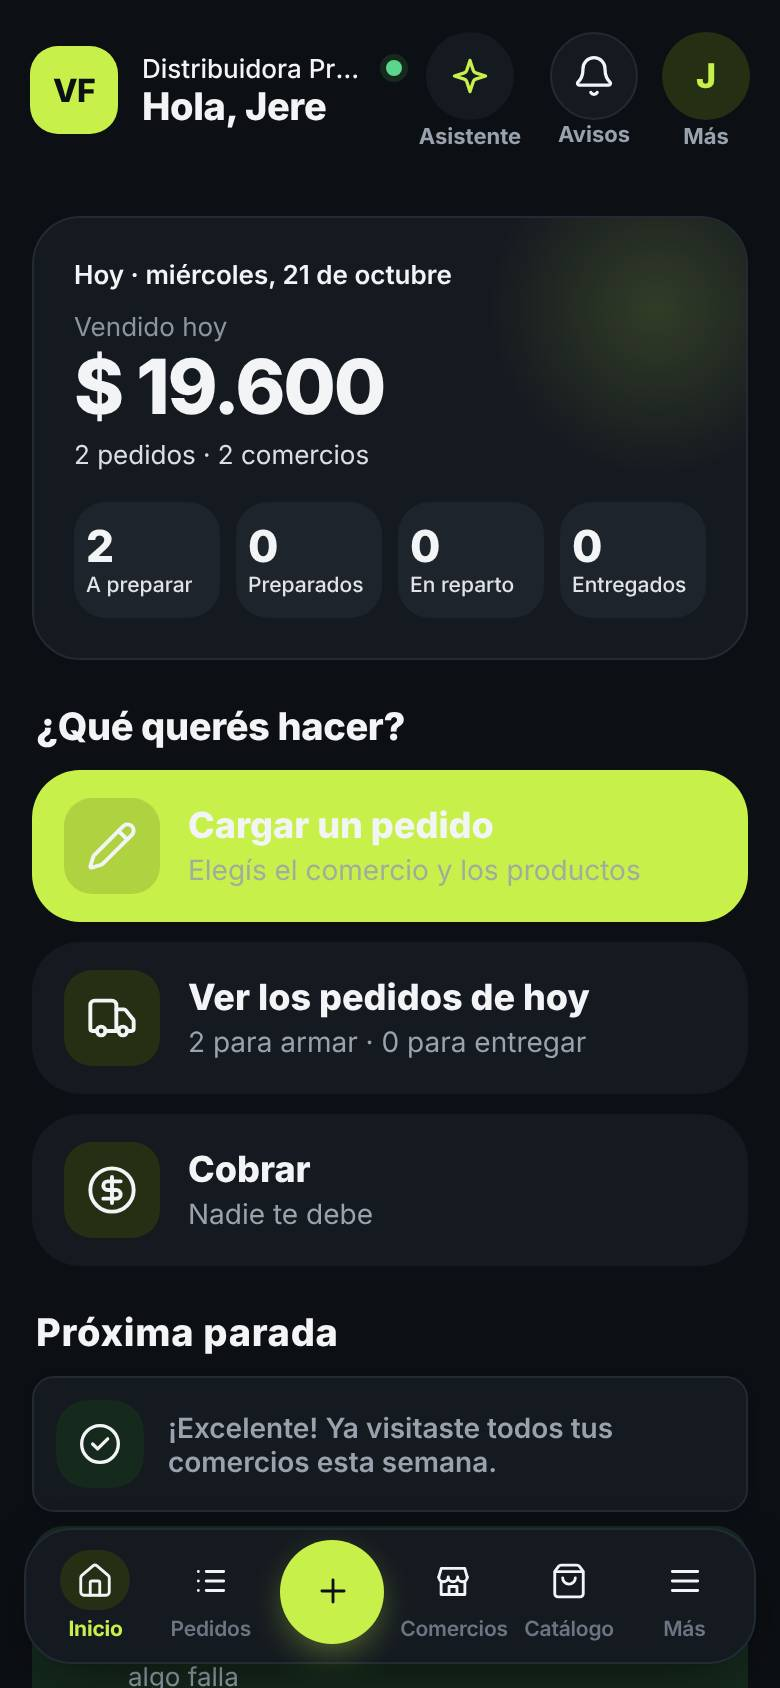
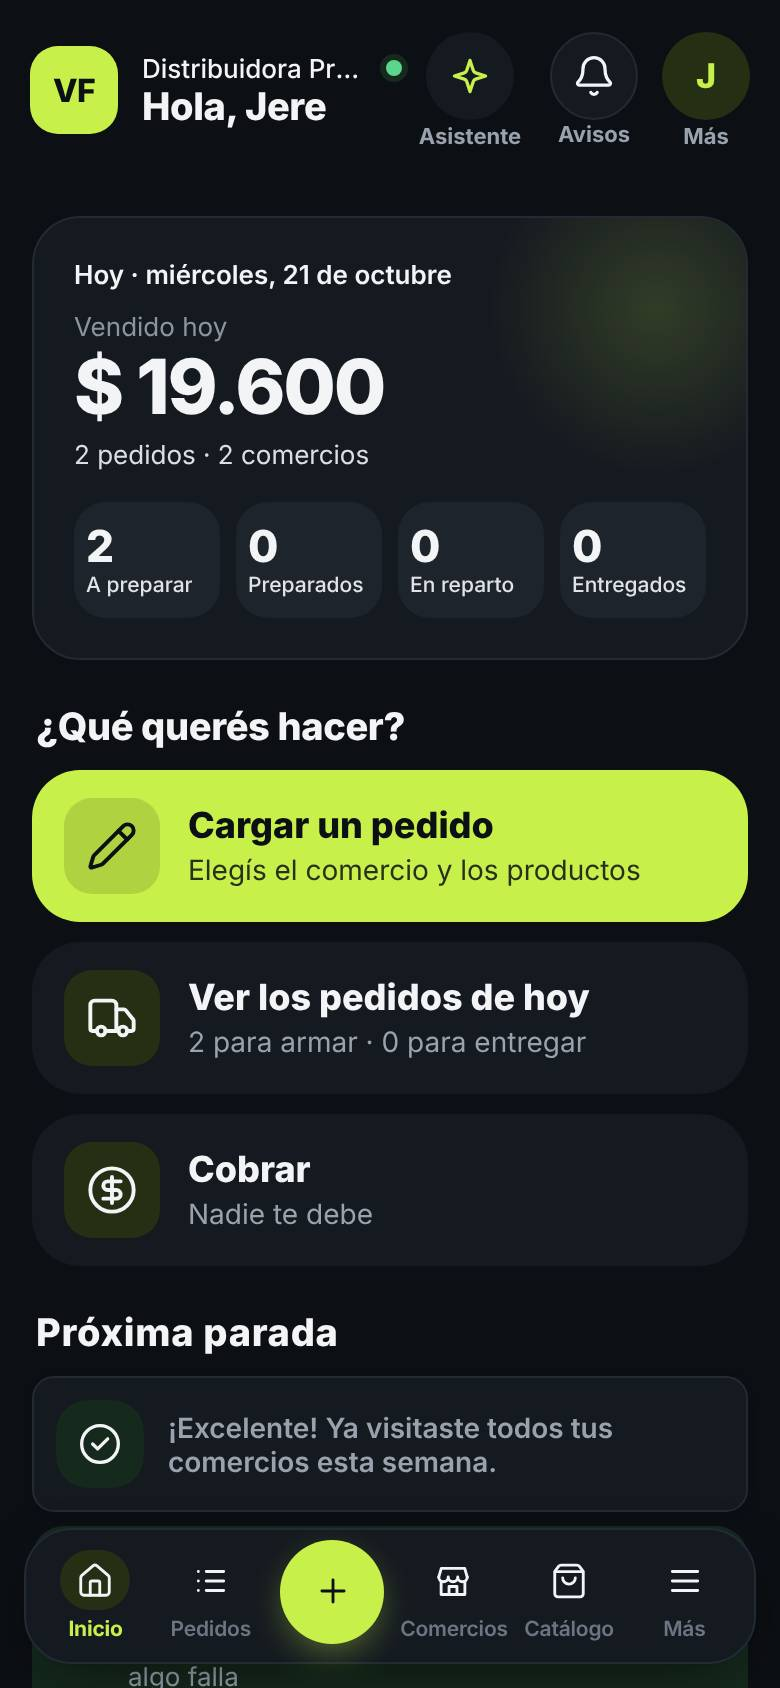
T153: texto legible sobre el acento en modo oscuro
Claude-Session: https://claude.ai/code/session_01KhWfEKH6F44y9M4kj3GdqK

Changed region(s): [[0.2462, 0.4621, 0.8, 0.5237], [0.1231, 0.4929, 0.1846, 0.5237]]

diff --git a/pruebas/diseno.prueba.js b/pruebas/diseno.prueba.js
@@ -20,6 +20,15 @@ test("diseño: cada pantalla principal con el estilo nuevo", async ({ page }, te
     await page.locator(".bottom-nav").getByRole("button", { name: "Inicio" }).click();
     await page.evaluate(() => window.scrollTo(0, 0));
     await capturar(page, "diseno-01-inicio");
+    // T153: el texto sobre el color de acento se lee (en oscuro era claro
+    // sobre lima).
+    const contraste = await page.evaluate(() => {
+        const luz = c => { const [r, g, b] = c.match(/[\d.]+/g).slice(0, 3).map(v => { v /= 255; return v <= 0.03928 ? v / 12.92 : ((v + 0.055) / 1.055) ** 2.4; }); return 0.2126 * r + 0.7152 * g + 0.0722 * b; };
+        const boton = document.querySelector(".queHacerOpcion.principal");
+        const a = luz(getComputedStyle(boton.querySelector("strong")).color), b = luz(getComputedStyle(boton).backgroundColor);
+        return (Math.max(a, b) + 0.05) / (Math.min(a, b) + 0.05);
+    });
+    expect(contraste).toBeGreaterThan(4);
 
     await irAPedidos(page);
     await capturar(page, "diseno-02-pedidos");

diff --git a/tema.css b/tema.css
@@ -2304,3 +2304,11 @@ html.volverConBarra #pantallaRutas .barraVolver::before{
   -webkit-backdrop-filter:none;backdrop-filter:none;
   background:color-mix(in srgb, var(--fondo) 97%, transparent);
 }
+
+/* T153: en modo oscuro, lo que va sobre el color de acento (lima) usa el
+   texto oscuro del acento: la regla general de texto claro lo dejaba casi
+   invisible ("Cargar un pedido", "Para armar"). */
+html[data-tema="oscuro"] :is(.queHacerOpcion.principal, .filtroEtapa.activo, .chipMarca.activo, .btnAccion.pasoSiguientePedido) :is(strong, span, small, b, p, h3){
+  color:var(--acento-txt) !important;
+}
+html[data-tema="oscuro"] .pasoFichaNumero{color:var(--acento-txt) !important;}

diff --git a/sw.js b/sw.js
@@ -1,7 +1,7 @@
 // =====================================================
 // VendeFrío - Service Worker (v164 - Estilo nuevo)
 // =====================================================
-const CACHE_NAME = "vendefrio-v204";
+const CACHE_NAME = "vendefrio-v205";
 const ARCHIVOS = [
   "./",
   "./index.html",

diff --git a/PROJECT_STATE.md b/PROJECT_STATE.md
@@ -1025,7 +1025,7 @@ El dueño quiere dar un salto de calidad antes de mostrarla a otros repartos: qu
 - [x] **T150 — Que la app abra rápido.** Comercios, Productos y marcas y Nuevo pedido ya no se dibujan mientras están ocultas: se dibujan al abrirlas, como ya hacía `mostrarPantalla` (con 200 comercios y 600 pedidos, el tiempo trabado al abrir bajó de unos 5,8 s a 0,2 s). La letra Inter va dentro de la app (`vendor/inter/`) en vez de pedirla a Google Fonts, que con poca señal frenaba toda la pantalla. El service worker deja de pedir primero a internet cada archivo: la app sale del celular al instante y baja la versión del servidor entera por detrás; si cambió algo, la guarda toda junta (nunca mezcla dos versiones) y aparece "Hay una versión nueva" con "Actualizar" (antes llegaba sola al abrir con buena señal; ahora llega en esa misma apertura, con el aviso). También revisa al volver a la app, cada 30 minutos. Prueba nueva `arranque.prueba.js` (con datos grandes y con señal pésima; `pruebas/servidor.js` puede simular señal lenta y una versión nueva). Esfuerzo: Alto.
 - [x] **T151 — Pantallas sin trabas.** Medido con el procesador 4 veces más lento, 200 comercios y 600 pedidos. Comercios contaba los pedidos de cada tarjeta recorriendo todo el historial (también en cada comparación del orden): ahora se cuentan una sola vez (`contarPedidosDeComercios`) y `normalizarTexto` recuerda lo ya calculado. Comercios e Historial (modo personal) dibujan las primeras tarjetas enseguida y el resto de a tandas cortas (`piezas.dibujarDeATandas`; buscar o salir corta las tandas), y al dejar esas pantallas se vacían sus listas (se vuelven a dibujar al entrar, como antes). Nuevo pedido copia las 41 opciones de cantidad y los íconos de los botones en vez de armarlos para cada producto. El Catálogo no recorre el historial si ningún producto tiene stock cargado. La traba más larga bajó: Comercios de 7,1 s a 0,2 s, Historial de 4,1 s a 0,15 s, Catálogo de 0,6 s a 0,3 s, Más de 0,5 s a 0,1 s y Nuevo pedido de 0,4 s a 0,3 s. Queda para más adelante: el estilo (CSS) es pesado y cada cambio de pantalla cuesta unos 0,1 s en un celular lento. Prueba nueva `pantallas.prueba.js` (y `pruebas/datosGrandes.js`, compartida con `arranque.prueba.js`). Esfuerzo: Alto.
 - [x] **T152 — Errores chicos conocidos.** El buscador de Configuración no oculta filas, etiquetas blancas de Historial en modo oscuro, la barra de abajo que tapa el final de las ventanas grandes, "Repetir último pedido" que puede repetir el de otro, el contador de pedidos del comercio con dos cargas a la vez y la prueba "confianza: versión nueva y cambios sin subir" que falla 1 de cada 6 veces. Esfuerzo: Medio.
-- [ ] **T153 — Modo oscuro y botones repetidos.** Recorrer todas las pantallas en oscuro y los botones duplicados de la ficha del comercio, Rutas y el cierre. Esfuerzo: Medio.
+- [x] **T153 — Modo oscuro y botones repetidos.** Recorrer todas las pantallas en oscuro y los botones duplicados de la ficha del comercio, Rutas y el cierre. Esfuerzo: Medio.
 
 ## Bitácora de sesiones
 
@@ -1150,4 +1150,5 @@ Una línea por sesión: fecha, quién trabajó, qué cambió, qué quedó pendie
 - 2026-10-21 — Claude Code: T150 y T151 (pedido del dueño, Bloque P, mismo pull request). La app abre rápido: no dibuja pantallas ocultas, la letra va dentro de la app y el service worker abre desde el celular y baja la versión nueva por detrás con el aviso "Hay una versión nueva". Prueba nueva `arranque.prueba.js`. T151: Comercios, Historial, Catálogo, Más y Nuevo pedido sin trabas con muchos datos; prueba nueva `pantallas.prueba.js`. Caché v202.
 - 2026-10-21 — Claude Code: T134 (Bloque O). Navegación con la pantalla «Manejando» de la maqueta: barra del día (una rayita por parada), tarjeta grande de la maniobra con carriles (donde el mapa los tiene), la frase que dice la voz y «Luego …»; abajo la tarjeta de la parada con minutos, km y hora de llegada y la siguiente asomando; velocímetro, voz, micrófono y salir; tu posición como flecha hacia donde vas y el camino con los colores de la maqueta (lima de noche). Tocar la tarjeta abre la hoja de siempre, que ahora también tiene voz y salir arriba. Arreglado: en modo oscuro los textos de la tarjeta de la maniobra salían claros sobre lima. Prueba nueva `manejando.prueba.js` (360×640).
 - 2026-10-22 — Claude Code: T152 (pedido del dueño, directo a `desarrollo`). Se revisaron los 6 errores: el buscador de Configuración, las etiquetas de Historial en oscuro, la barra que tapa las ventanas, "Repetir último pedido" y el contador de pedidos del comercio ya estaban arreglados desde T64 (no se tocó código de la app). Quedaba la prueba "confianza: versión nueva y cambios sin subir": ahora repite el toque en "Reintentar ahora" hasta que suba todo y espera más el aviso final (14 corridas seguidas sin fallar). En la corrida completa falló una vez, sin relación, "plata: alias y QR…" (en 3 corridas más pasó 3 de 3). Sin cambios en la app ni en cobros.
+- 2026-10-22 — Claude Code: T153 (pedido del dueño, directo a `desarrollo`). Modo oscuro: lo que va sobre el lima ("Cargar un pedido" de Inicio, la pestaña activa "Para armar", los números de los pasos de la ficha, las marcas activas y "Salir a repartir") tenía el texto claro y casi no se leía; ahora usa el texto oscuro del acento (`tema.css`). Se revisó un recorrido de 14 pantallas en oscuro midiendo el contraste y buscando botones con el mismo nombre: en la ficha del comercio, Rutas y el cierre no hay botones repetidos ("Google Maps" y "Navegar la ruta" hacen cosas distintas), así que no se sacó ninguno. `diseno.prueba.js` revisa el contraste de "Cargar un pedido". Caché v205. Sin cambios en cobros.
 - 2026-10-21 — Claude Code: T135 (Bloque O). Pantalla «Llegando» de la maqueta: sin más giros y a menos de 150 m (por distancia, no al frenar), la tarjeta de arriba dice «Llegando · 60 m» y de qué lado queda el comercio, la voz lo avisa una vez y la hoja se agranda sola (una vez por parada; si la cerrás no vuelve). La hoja: nombre, dirección y «parada 2 de 12», «Pedido $ …» y «Cobrar saldo $ …» (solo si podés ver la plata), Llamar, WhatsApp, Ya llego y Cargar pedido grandes, «Deslizá para marcar Llegué» (el mismo deslizador de Entregado), Saltear parada y Salir; abajo siguen los pedidos, las paradas y Google Maps. Con la hoja abierta tu posición queda en el pedazo de mapa entre la tarjeta y la hoja. Prueba nueva `llegando.prueba.js` en 360×640; `navegacion` y `manejando` ahora deslizan «Llegué».
